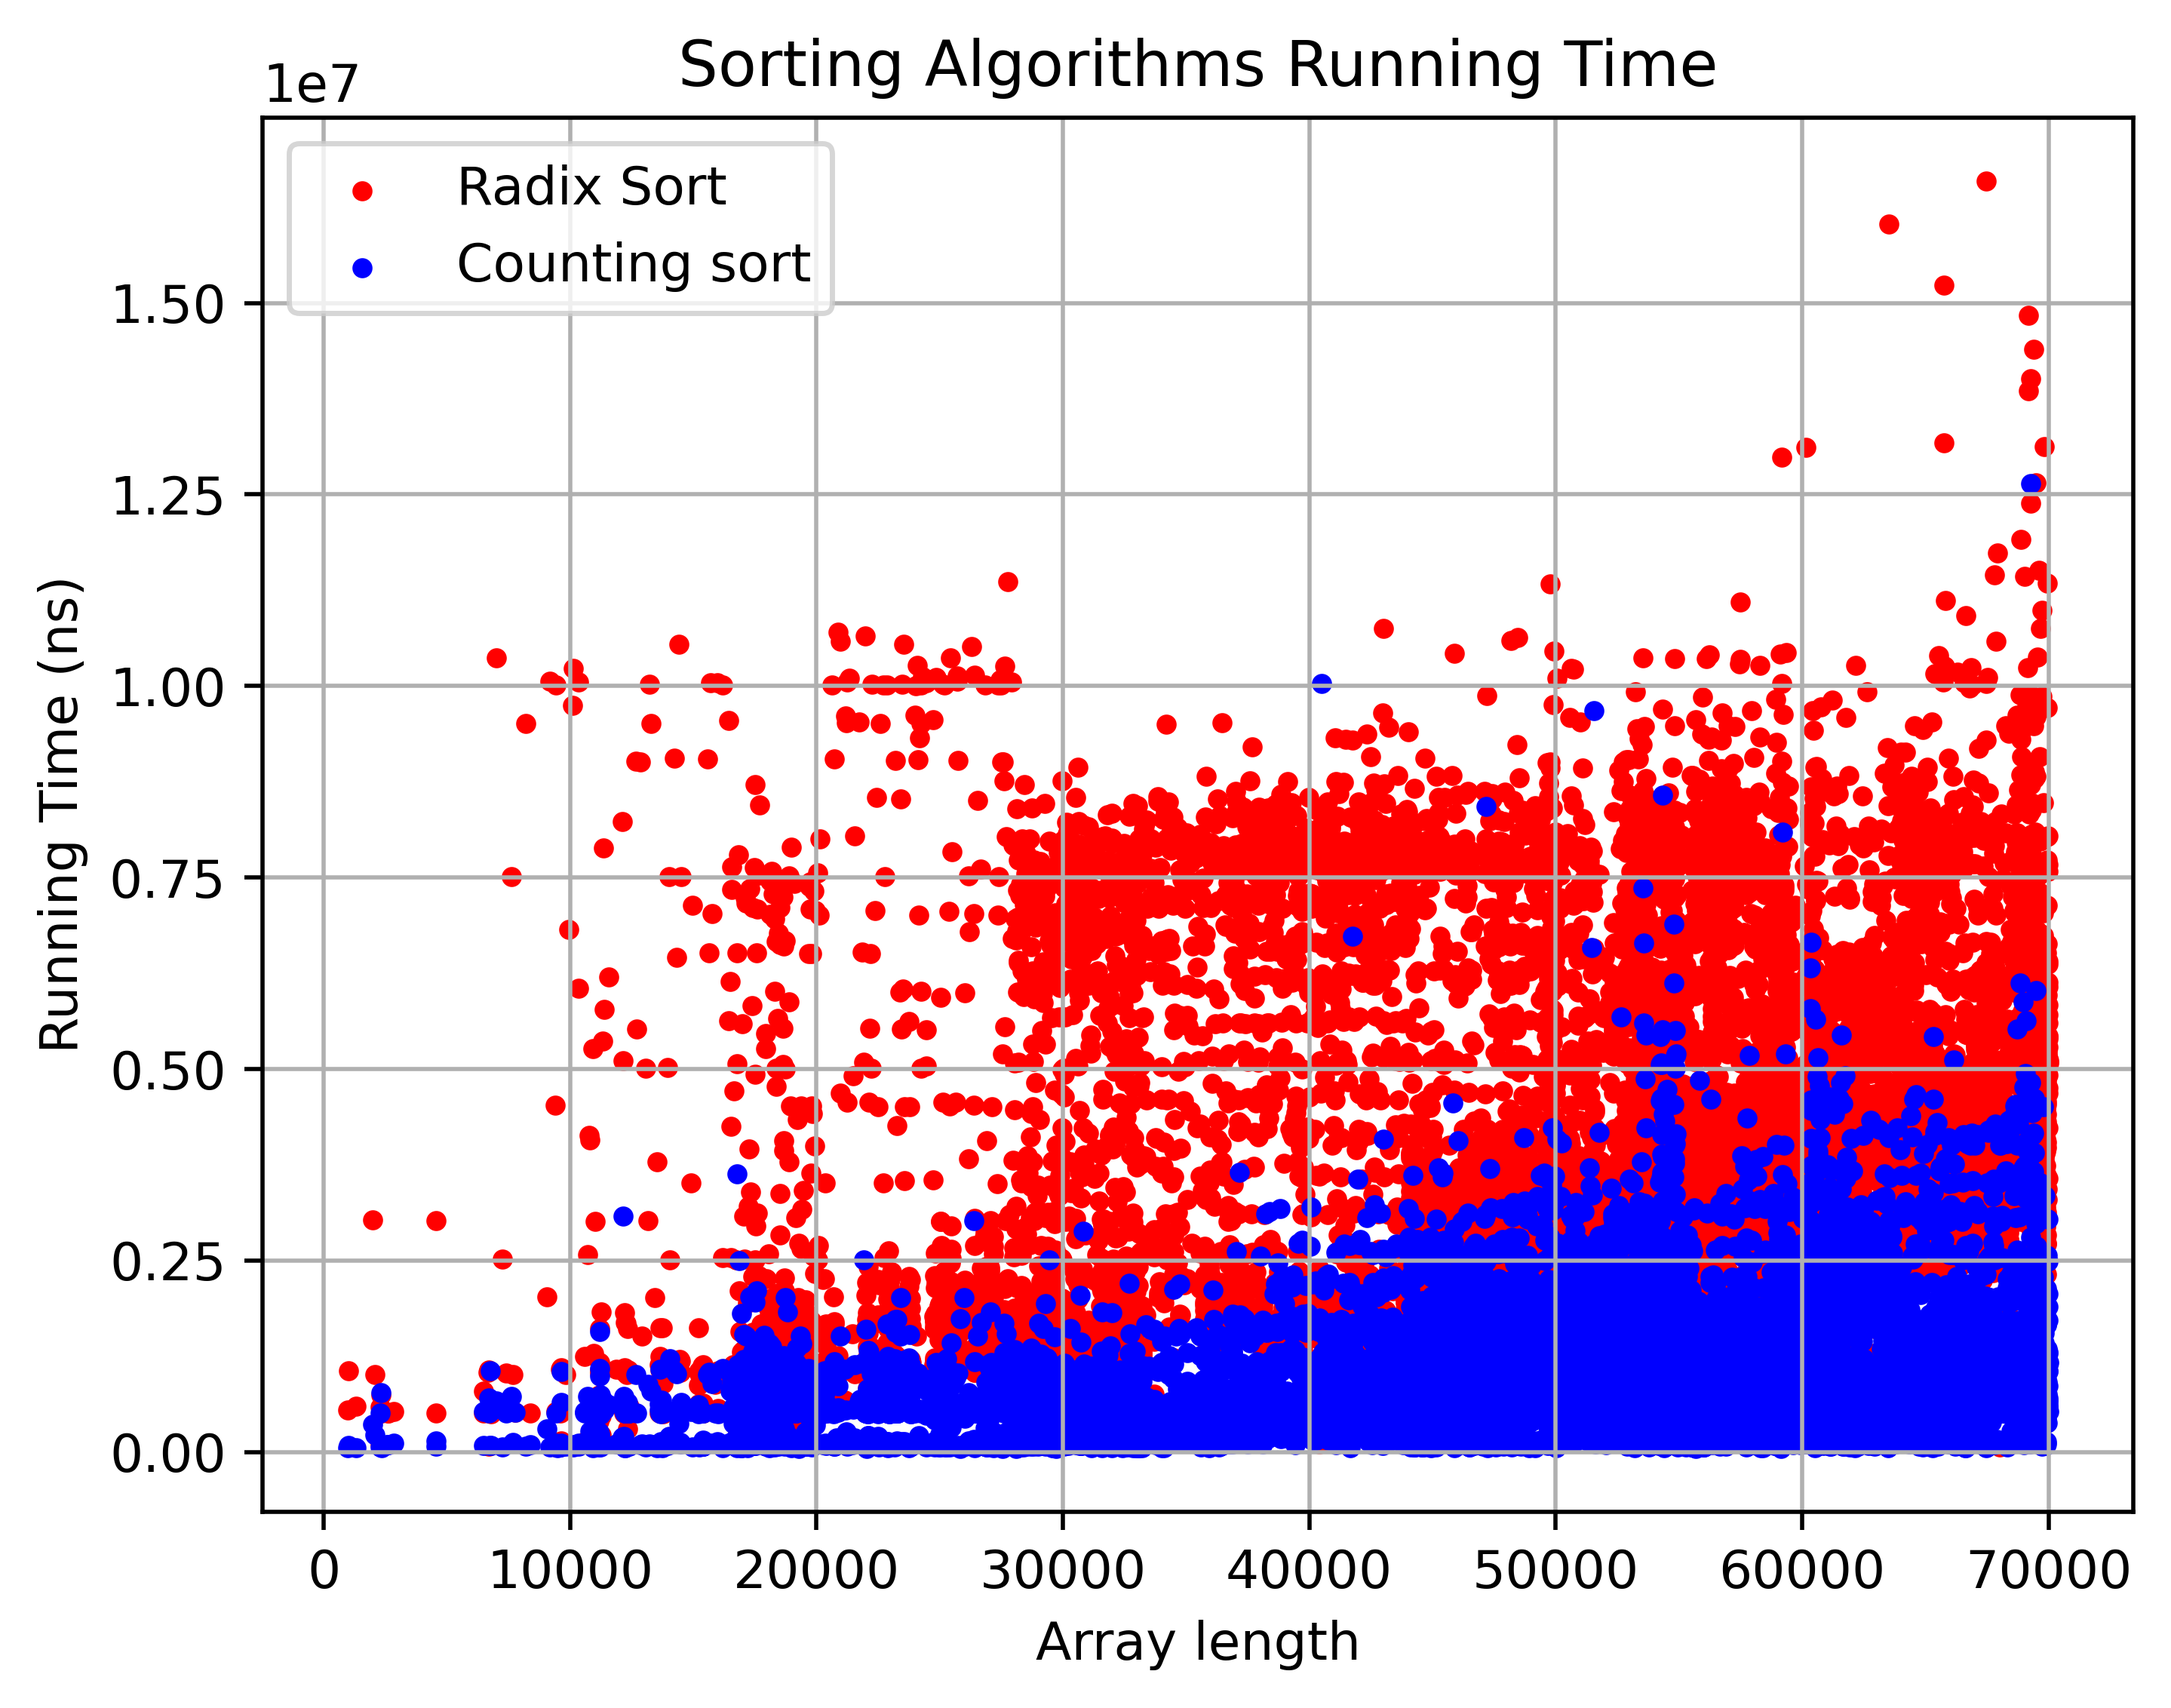
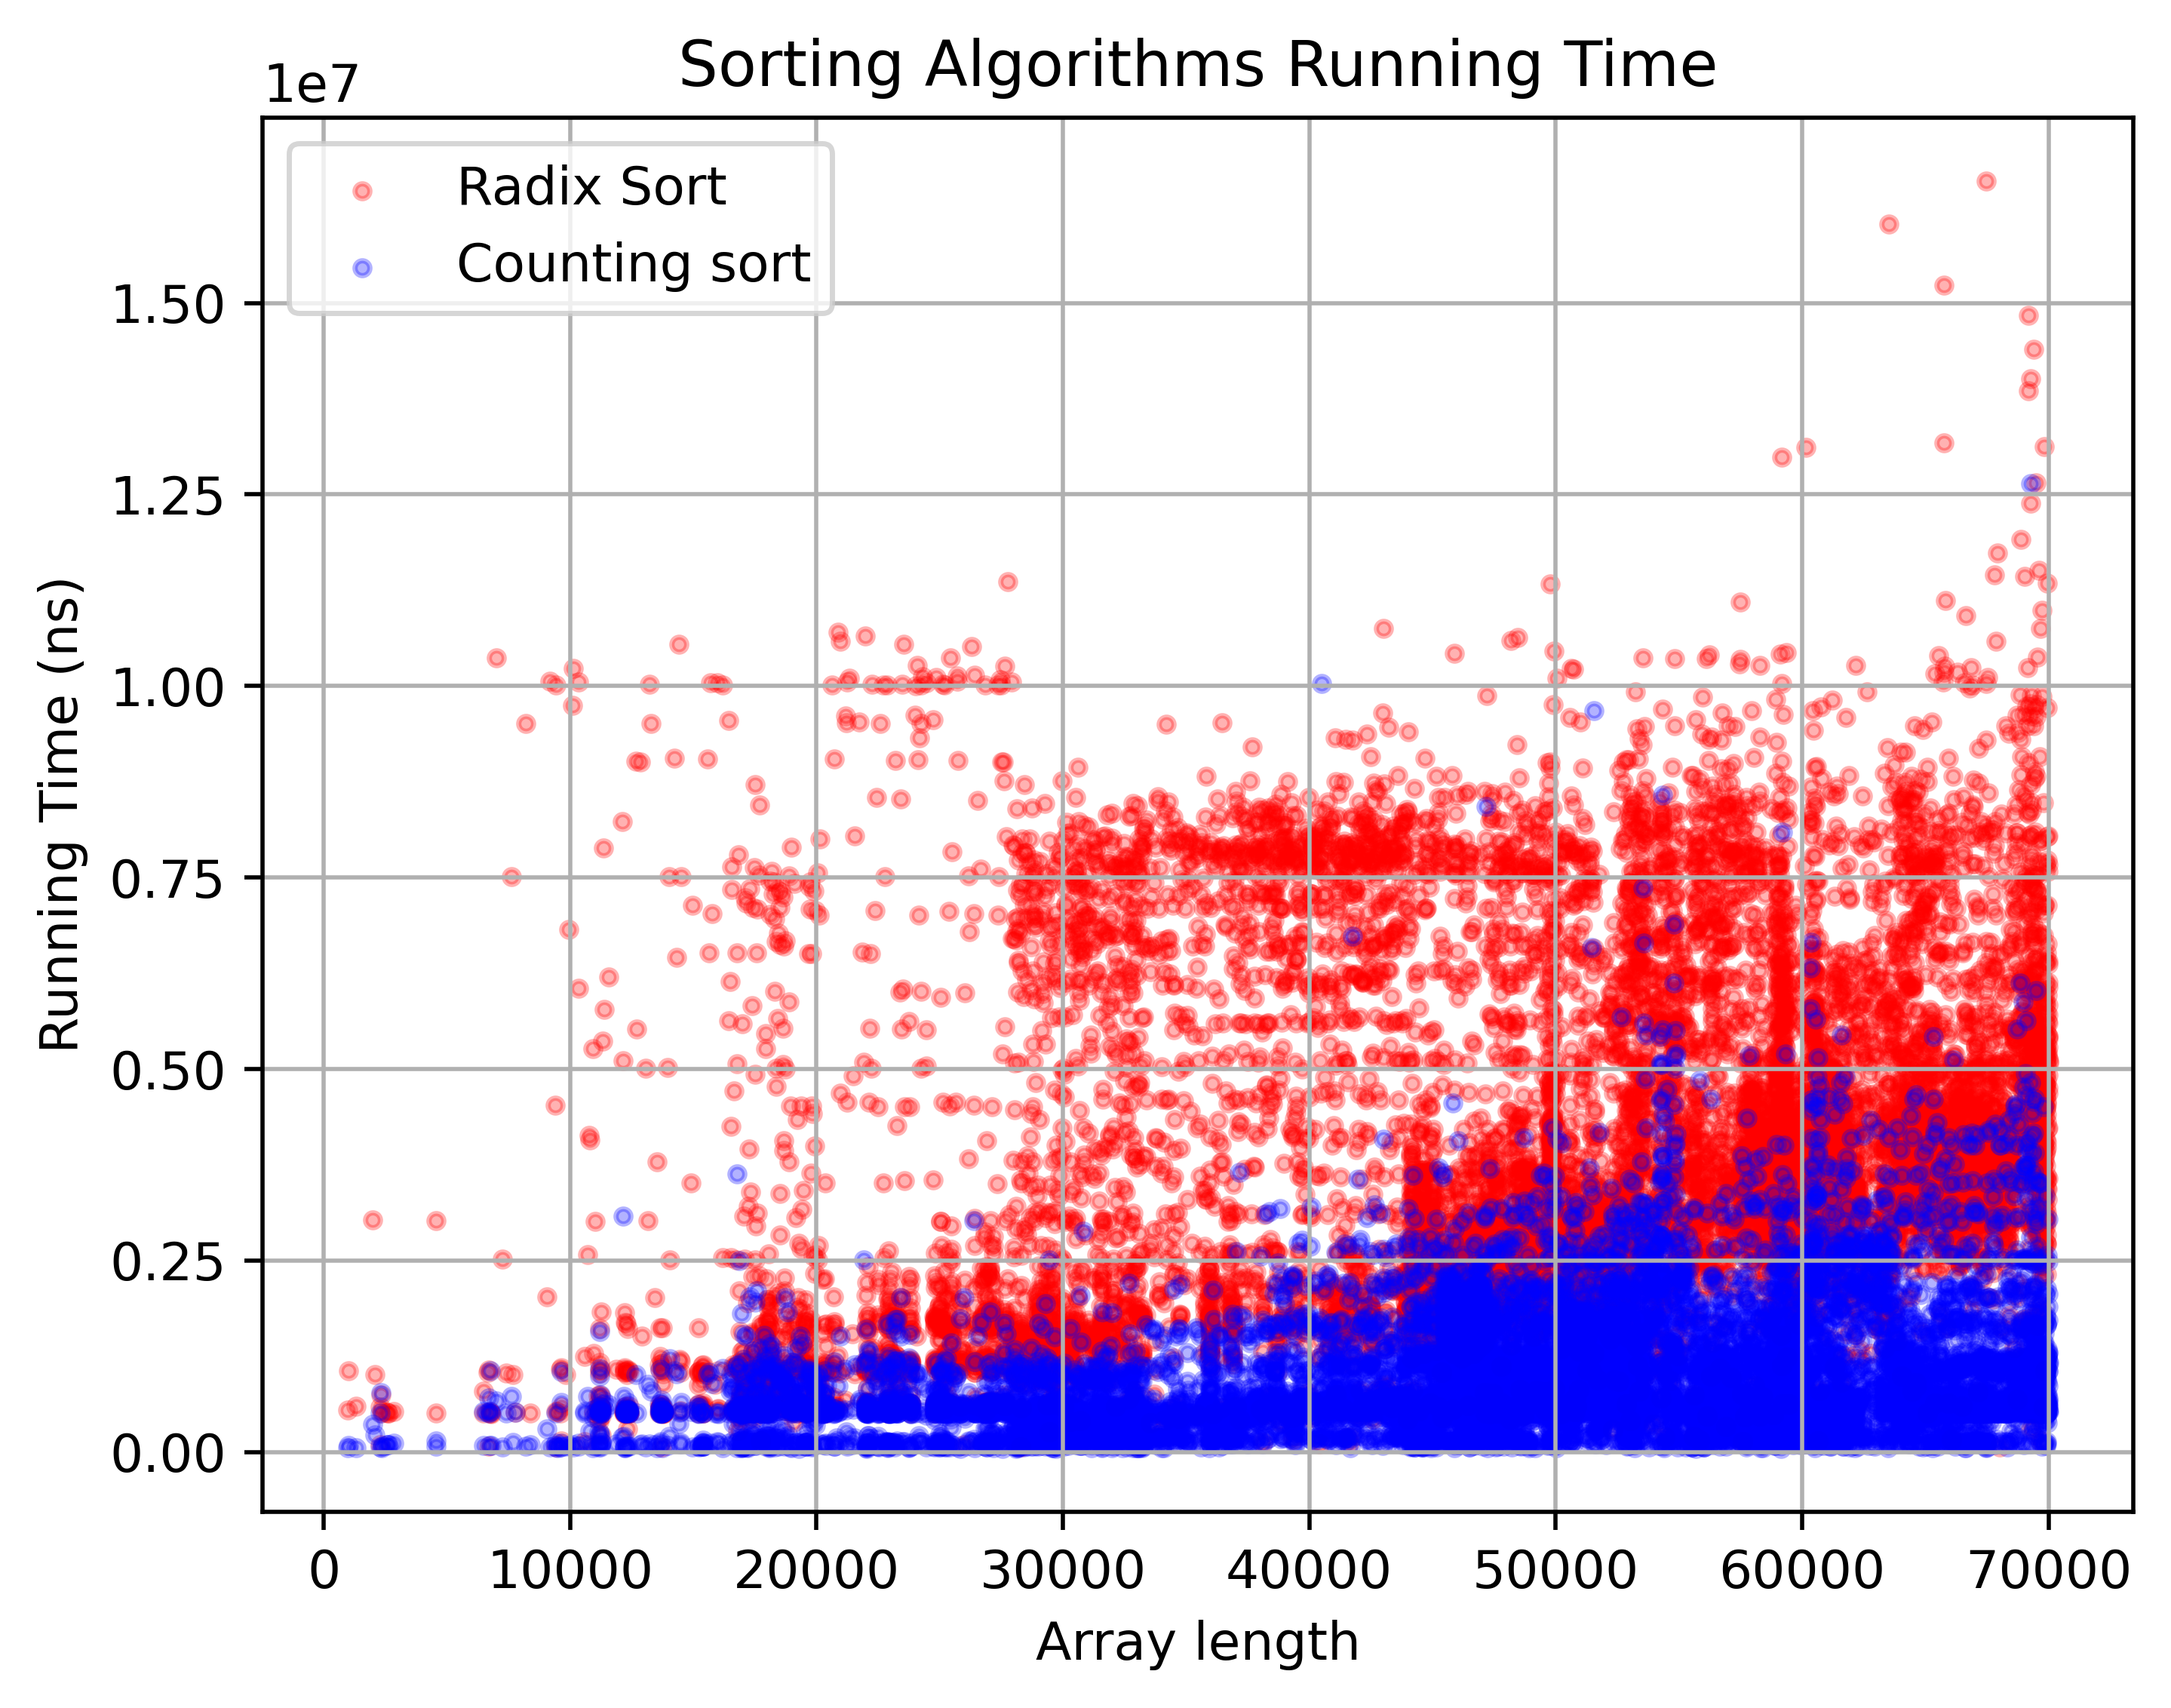
chore: apply alph in countsort comparison graph

diff --git a/python/display/display-countsort-comparison.py b/python/display/display-countsort-comparison.py
@@ -22,9 +22,9 @@ n = n[mask]
 radix = radix[mask]
 counting = counting[mask]
 
-plt.scatter(n, radix, color='red',s=8, label='Radix Sort')
+plt.scatter(n, radix, color='red',s=8, label='Radix Sort', alpha=0.3)
 
-plt.scatter(n, counting, color='blue',s=8, label='Counting sort')
+plt.scatter(n, counting, color='blue',s=8, label='Counting sort', alpha=0.3)
 
 plt.title("Sorting Algorithms Running Time")
 plt.xlabel("Array length")
